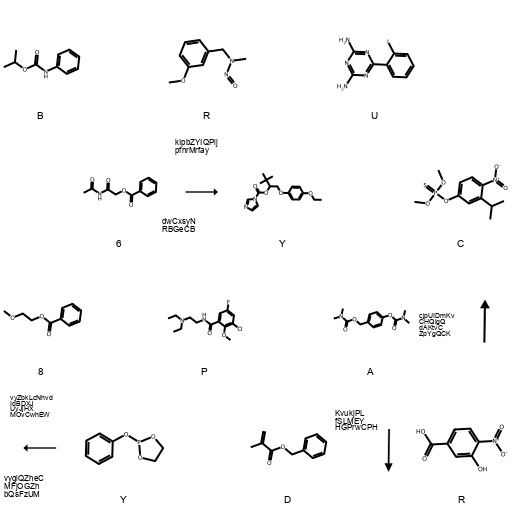
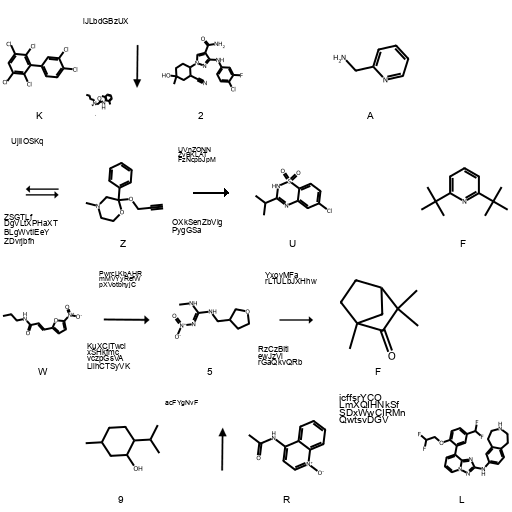
Fixed PLUS SIGNS BUG

diff --git a/arrow_78/functions/classes/drawings.py b/arrow_78/functions/classes/drawings.py
@@ -104,48 +104,49 @@ class Symbol():
         self.img_width = img_width
         self.img_height = img_height
         self.reaction_width = reaction_width
-        self.probabs = [1,1,1,1,1,2,2,2,2,3,4,4,4,4,4] # 1 = curved arrows. 2 = vertical. 3 = diagonal. 4 = horizontal.
+        self.probabs = [1,1,1,1,1,2,2,2,3,4,4,4,4,4,4] # 1 = curved arrows. 2 = vertical. 3 = diagonal. 4 = horizontal.
         self.percentage_pad = 0
         self.text_padding = 0
         self.num_characters_text = 0
         self.rotations = [0,90,180,270]
 
-    def insertImageOnWhiteBckg(self,bckground,foreground, current_w, current_h, objtype, width_obj, height_obj = None, xpos = None, ypos = None):
+    def insertImageOnWhiteBckg(self, bckground, foreground, current_w, current_h, objtype, width_obj, height_obj=None, xpos=None, ypos=None):
         print(f"Inside insertImageOnWhiteBckg(): {objtype}")
-        # Get the size of the molecule
         if objtype == "plus":
-            # Where to paste im2:
             print(f"Foreground size for plus image: {foreground.size}")
             
-            xpos = random.randint(int(self.img_width / 2 - 10),int(self.img_width / 2 + 10) )
-            ypos = int(self.img_height / 2)
+            # Get the size of the plus image
+            plus_width, plus_height = foreground.size
             
-            bckground.paste(foreground,(xpos,ypos),foreground) # im2 as 3rd param, to add white background.
-            height_obj = width_obj
+            # Calculate xpos and ypos to center the plus image
+            xpos = (self.img_width - plus_width) // 2
+            ypos = (self.img_height - plus_height) // 2
+            
+            # Ensure foreground is RGBA
+            if foreground.mode != 'RGBA':
+                foreground = foreground.convert('RGBA')
+            
+            # Get the alpha channel (should be opaque where the plus is)
+            alpha = foreground.split()[3]
+            
+            # Paste the plus using the correct alpha as the mask
+            bckground.paste(foreground, (xpos, ypos), alpha)
+            
+            height_obj = plus_height  # Set height based on the image
+            width_obj = plus_width   # Set width based on the image
         else:
+            # Handle other object types (existing code)
             pass
-            # Paste the molecule to the image with the rectangle.
-            #bckground.paste(foreground,(xpos,ypos),foreground) # im2 as 3rd param, to add white background.
         
-        if foreground.mode != 'RGBA':
-            foreground = foreground.convert('RGBA')
-        # Get the alpha channel
-        alpha = foreground.split()[3]
-        # Create a white image of the same size with alpha channel
-        white = Image.new('L', foreground.size, 255)
-        # Combine the two images
-        foreground.putalpha(white)
-        bckground.paste(foreground,(xpos,ypos), alpha)
+        # Store arrow position based on centered coordinates
+        arrow_x_coord = current_w + xpos
+        arrow_y_coord = current_h + ypos
+        arrow_xend_coord = arrow_x_coord + width_obj
+        arrow_yend_coord = arrow_y_coord + height_obj
         
-        # Store arrow position
-        arrow_x_coord = current_w + xpos - 1
-        arrow_y_coord = current_h + ypos - 1
-        arrow_xend_coord =  arrow_x_coord + width_obj + 4
-        arrow_yend_coord = arrow_y_coord + height_obj + 4
-        #print(f"Arrow coordinates: {arrow_x_coord, arrow_y_coord, arrow_xend_coord, arrow_yend_coord}")
-        return bckground, arrow_x_coord, arrow_y_coord,arrow_xend_coord, arrow_yend_coord
-
-    def drawArrowPIL(self,im, ptA, ptB, width=2, color=(0,0,0)):
+        return bckground, arrow_x_coord, arrow_y_coord, arrow_xend_coord, arrow_yend_coord
+    
+    def drawArrowPIL(self,im, ptA, ptB, width=4, color=(0,0,0)):
         """Draw line from ptA to ptB with arrowhead at ptB"""
         
         # Get drawing context
@@ -310,6 +311,7 @@ class Symbol():
                 yposArr = int(arrowsize[1])
                 arrow_w = int(arrowsize[2])
                 arrow_h = int(arrowsize[3])
+                print(f"Arrow size: {arrowsize[4]}")
                 typeImg = arrowsize[4]
                 im2 = Image.open("symbols/corners/"+MorL+dirsize+arrowpath)
                 im2_h,im2_w = im2.size
@@ -317,7 +319,7 @@ class Symbol():
                     im2 = im2.resize((self.img_width,self.img_height))
 
                 print(f"We are at: {arrowpath}:")
-                img,arrow_x_coord,arrow_y_coord,arrow_xend_coord,arrow_yend_coord = self.insertImageOnWhiteBckg(img,im2,current_w,current_h,"arrow",arrow_w,arrow_h, xposArr, yposArr)
+                img,arrow_x_coord,arrow_y_coord,arrow_xend_coord,arrow_yend_coord = self.insertImageOnWhiteBckg(img,im2,current_w,current_h, typeImg, arrow_w, arrow_h, xposArr, yposArr)
                 # Changed from arrow to curved (object type)
                 
             elif probab == 2: # Vertical

diff --git a/arrow_78/data/data.py b/arrow_78/data/data.py
@@ -19,7 +19,7 @@ def prepareMolecules(path):
     """
     n_mol_used = 0
     with open(path) as infile: # File from which read the molecules
-        with open('molecules.txt','w') as outfile: # File to which write them 
+        with open('molecules_new.txt','w') as outfile: # File to which write them 
             for it,line in enumerate(infile.readlines()):
                 if it < 500000:                    
                     newline = line.strip().split()[1]
